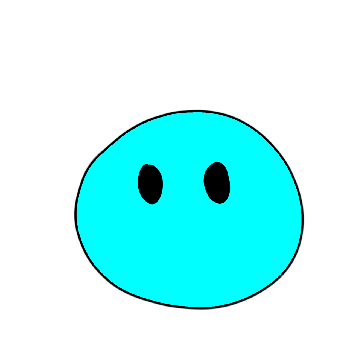
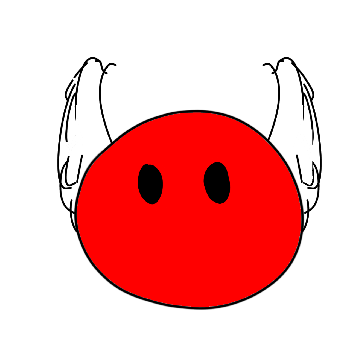
0109
更新按鈕死亡後仍可點擊問題，更新翅膀沒有顯示問題

diff --git a/src/finalproject2/FirstPage.java b/src/finalproject2/FirstPage.java
@@ -170,13 +170,15 @@ public class FirstPage extends JPanel implements Commonly_GridBagConstraints, Ob
 				// TODO Auto-generated method stub
 				System.out.println("點擊史萊姆");
 				//裝備
-				
-				if(slimeLife.notOpen()) {
-					slimeLife=new SlimeLife();
-					slimeLife.open(account,subject);
-				}else {
-					slimeLife.toFront();
+				if(!account.monster.dead()) {
+					if(slimeLife.notOpen()) {
+						slimeLife=new SlimeLife();
+						slimeLife.open(account,subject);
+					}else {
+						slimeLife.toFront();
+					}
 				}
+				
 				
 			};
 		};
@@ -187,14 +189,17 @@ public class FirstPage extends JPanel implements Commonly_GridBagConstraints, Ob
 				// TODO Auto-generated method stub
 				System.out.println("點擊互動");
 				
-
-				//確認不重複被開啟
-				if(interactiveJFrame.notOpen()) {
-					interactiveJFrame=new InteractiveJFrame();
-					interactiveJFrame.open(account,subject);
-				}else {
-					interactiveJFrame.toFront();
+				//如果死了就不讓按
+				if(!account.monster.dead()) {
+					//確認不重複被開啟
+					if(interactiveJFrame.notOpen()) {
+						interactiveJFrame=new InteractiveJFrame();
+						interactiveJFrame.open(account,subject);
+					}else {
+						interactiveJFrame.toFront();
+					}
 				}
+				
 				
 			};
 		};

diff --git a/src/finalproject2/Subject.java b/src/finalproject2/Subject.java
@@ -5,8 +5,7 @@ import java.util.List;
 
 //被觀察者類
 class Subject {
-//	private String[] strings;
-//	private int[] ints;
+
 	private Account account;
 	private List<Observer> observers = new ArrayList<>();
 
@@ -14,21 +13,7 @@ class Subject {
 		observers.add(observer);
 	}
 
-//	public void setStrings( String[]  strings) {
-//		this.strings = strings;
-//		notifyObservers(); // 設定新值後通知所有觀察者
-//	}
-//	public String[] getStrings() {
-//		return strings;
-//	}
-//	
-//	public void setStates( int[]  ints) {
-//		this.ints = ints;
-//		notifyObservers(); // 設定新值後通知所有觀察者
-//	}
-//	public int[] getStates() {
-//		return ints;
-//	}
+
 	public void setAccount( Account account) {
 		this.account = account;
 		notifyObservers(); // 設定新值後通知所有觀察者
@@ -38,8 +23,6 @@ class Subject {
 	}
 	private void notifyObservers() {
 		for (Observer observer : observers) {
-//			observer.update(strings); // 更新所有觀察者
-//			observer.updataInt(ints);
 			observer.updataAccount(account);
 		}
 	}

diff --git a/src/finalproject2/MonsterPanel.java b/src/finalproject2/MonsterPanel.java
@@ -56,13 +56,13 @@ public class MonsterPanel extends JPanel implements Observer {
 		subject.addObserver(this);
 		this.account=account;
 		this.wing=wing;
-		open( );
+		open(wing);
 		
 	}
 
-	public void open( ) {
+	public void open(boolean Wing) {
 		remove(newMonsterButton);
-		
+		this.wing=Wing;
 		/*
 		 * \ 0 藍史萊姆01水冰23 1 紅史萊姆0123 2 綠史萊姆0123 3 紫史萊姆012345
 		 */
@@ -221,7 +221,7 @@ public class MonsterPanel extends JPanel implements Observer {
 			 */
 			//System.out.print("狀態" + account.monster.getStates(i) + "\t" + restart);
 			if (restart) {
-				open();
+				open(account.monster.getWing());
 				break;
 			}
 			// System.out.print("狀態"+ account.monster.getStates(i)+"\t");
@@ -274,7 +274,7 @@ public class MonsterPanel extends JPanel implements Observer {
 			}
 		}
 		if(goodstate) {
-			open();
+			open(account.monster.getWing());
 		}
 		
 	}

diff --git a/src/finalproject2/Monster.java b/src/finalproject2/Monster.java
@@ -289,5 +289,10 @@ public class Monster {
 		int[] slimestates=new int[] { hungerValue, thirstValue, moodValue, healthValue};
 		return slimestates[i];
 	}
-	
+	public boolean dead() {
+		if(getHealthValue()<=0||getHungerValue()<=0||getThirstValue()<=0||getMoodValue()<=0) {
+			return true;
+		}
+		return false;
+	}
 }
